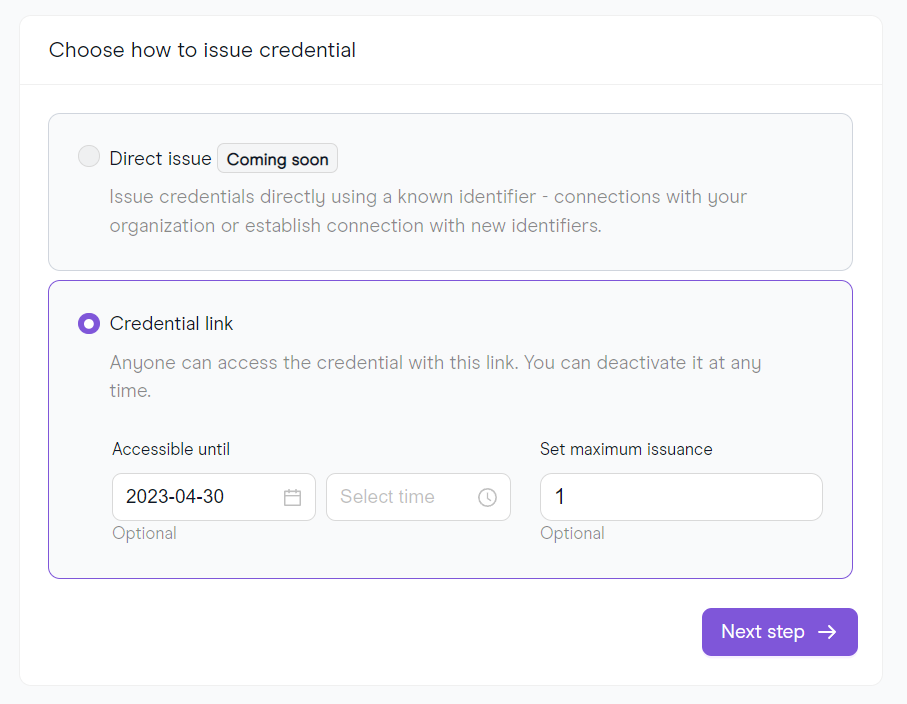
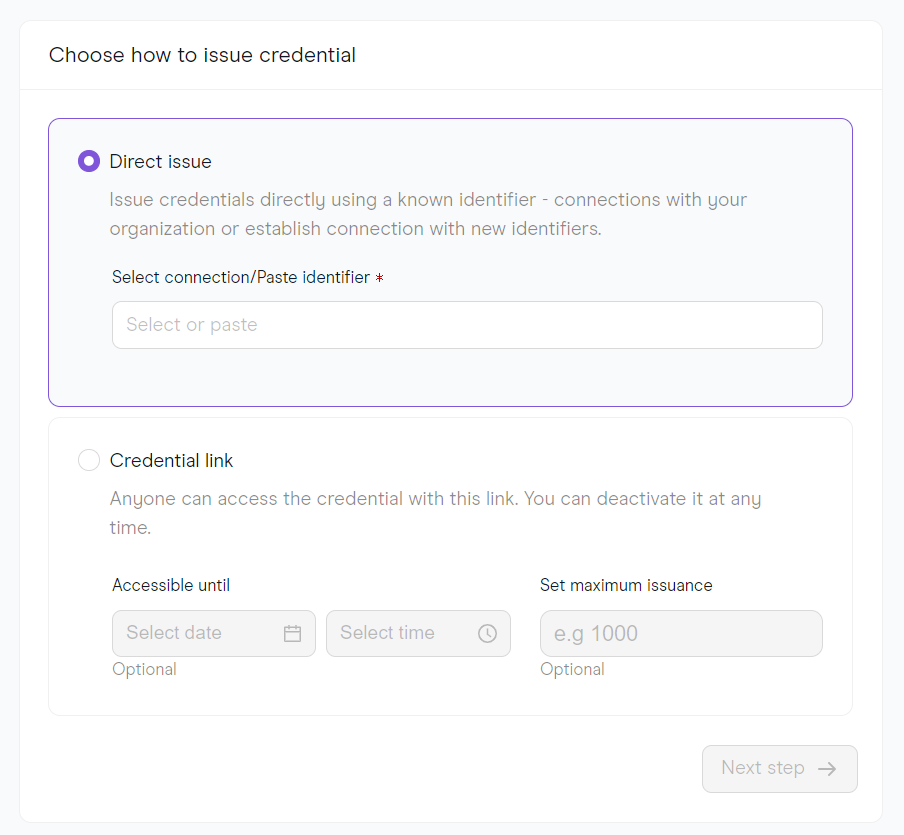
adds direct issuance and complements Connections

diff --git a/mkdocs/docs/issuer-node/issuer-node-guide.md b/mkdocs/docs/issuer-node/issuer-node-guide.md
@@ -54,6 +54,39 @@ The Credentials main page shows information about all the credentials that have 
 
 The main responsibility of an Issuer is to create and provide credentials to ID holders. Here is how you can do it:
 
+### Direct Issuance
+If you already have a connection with an identifier or you have its DID, you can issue a credential directly to it.
+
+1. You can start by clicking on the **Issue credential** button or choosing the **Issue** action next to one of your Schema types.
+
+    <div align="center">
+    <img src= "../../imgs/issue-credential-1.png" align="center" width="1000" height="1000"/>
+    </div>
+
+    !!! note
+        The [Connections area](#connections) shows all identifiers who have been granted credentials. Direct issuance can also be done from there, by selecting the identifier you would like to issue a credential for.
+
+2. Either paste an identifier DID or select one from the list:
+
+    <div align="center">
+    <img src= "../../imgs/issue-credential-2.png" align="center" width="1000" height="1000"/>
+    </div>
+
+3. Now you will be prompted to choose which Schema Type you would like to create your credential with.
+    <div align="center">
+    <img src= "../../imgs/issue-credential-3.png" align="center" width="1000" height="1000"/>
+    </div>
+
+4. The credential we are trying to issue in this tutorial has one mandatory field: the **entryDate**. That would represent the day when the person would have joined the DAO.
+
+    <div align="center">
+    <img src= "../../imgs/issue-credential-4.png" align="center" width="1000" height="1000"/>
+    </div>
+
+5. Click on **Issue credential directly** and the credential is sent to the Holder. 
+
+### Generating a Credential link
+
 1. You can start by clicking on the **Issue credential** button or choosing the **Issue** action next to one of your Schema types.
 
     <div align="center">
@@ -63,11 +96,11 @@ The main responsibility of an Issuer is to create and provide credentials to ID 
 2. There are some available options for this credential: an expiring date and a maximum number of issuances. 
 
     <div align="center">
-    <img src= "../../imgs/issue-credential-2.png" align="center" width="1000" height="1000"/>
+    <img src= "../../imgs/issue-credential-2-link.png" align="center" width="1000" height="1000"/>
     </div>
 
     !!! note
-        If you clicked on the **Issue credential** button, you will later be prompted to choose which Schema Type you would like to create your credential.
+        If you clicked on the **Issue credential** button, you will later be prompted to choose which Schema Type you would like to create your credential with.
         <div align="center">
         <img src= "../../imgs/issue-credential-3.png" align="center" width="1000" height="1000"/>
         </div>
@@ -105,5 +138,10 @@ This area of the Issuer Node UI shows all the current connections with ID Holder
 <img src= "../../imgs/connection-1.png" align="center" />
 </div>
 
+You can also check the details about each of those connections, issue credentials directly or remove them by clicking on the 3 dots next to each connection.
 
+The Details page shows some useful information, such as identifier(DID), creation date and issued credentials. Some other available actions are direct issuance, credential revocation and removal.
 
+<div align="center">
+<img src= "../../imgs/connection-details.png" align="center" />
+</div>
